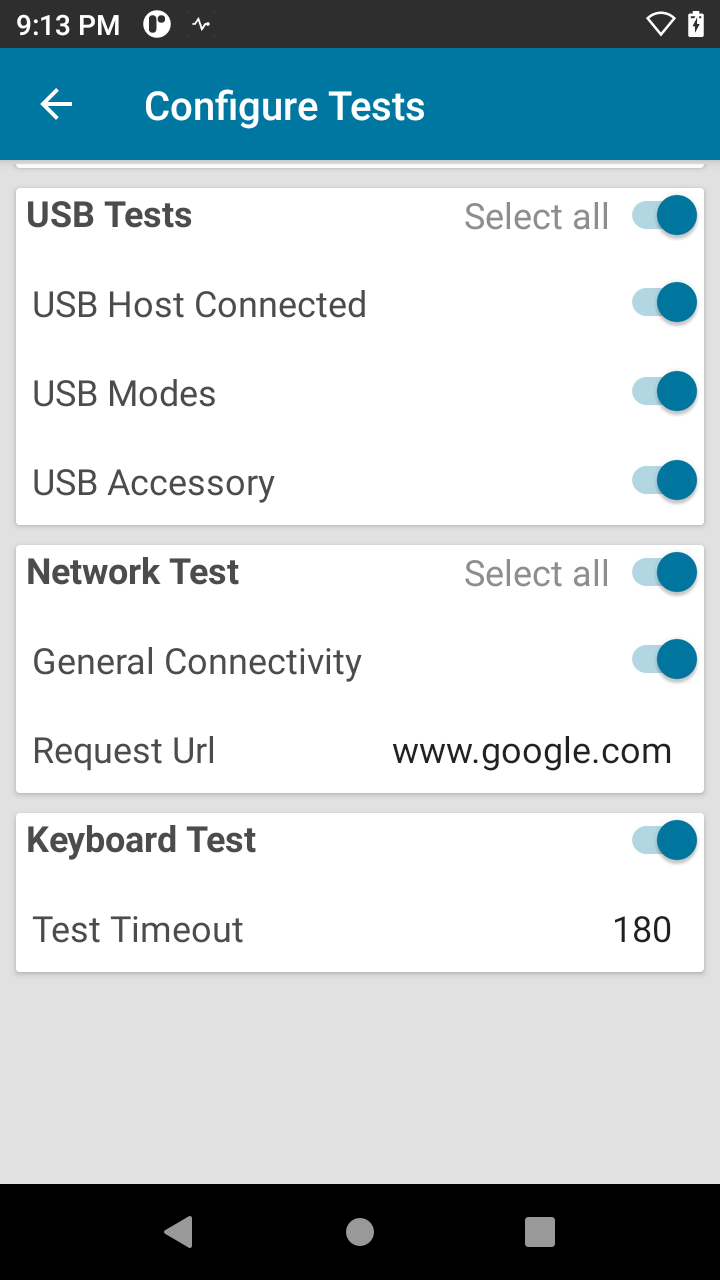
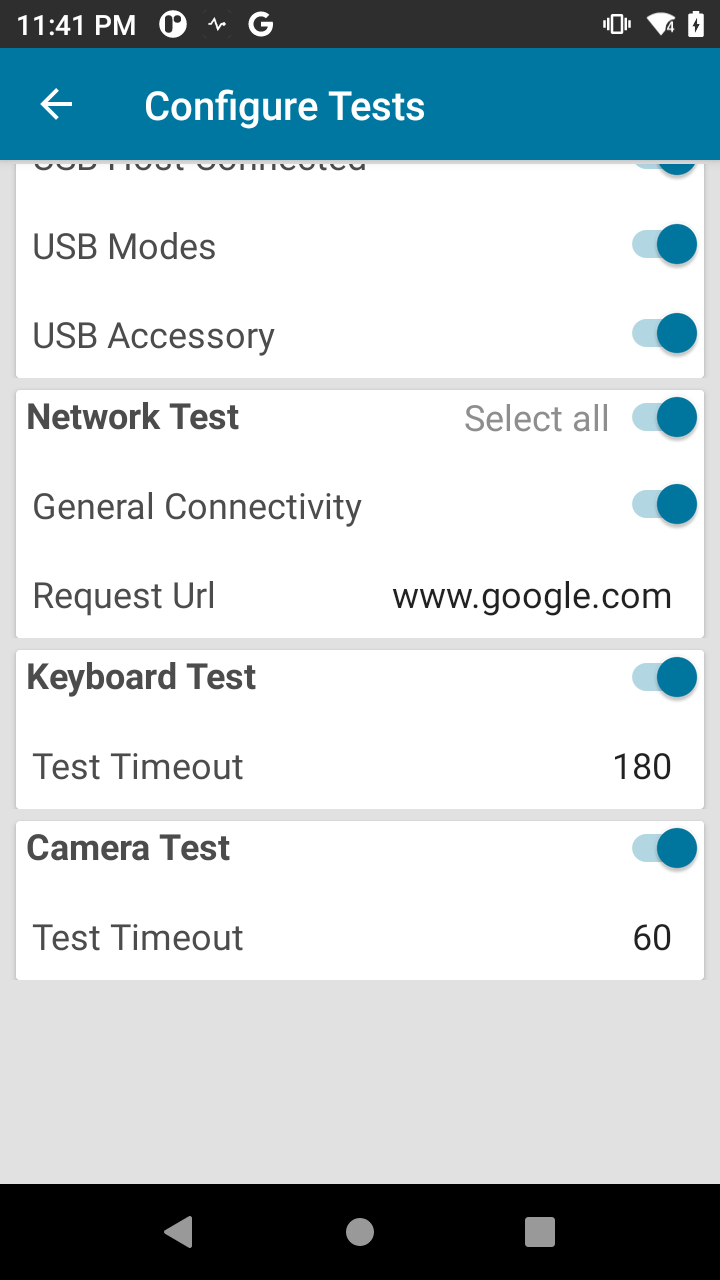
[TUT-92232] DDT 3.1 - New camera test

diff --git a/ddt/3-1/guide/about/index.html b/ddt/3-1/guide/about/index.html
@@ -278,6 +278,8 @@
 <li><strong>Network Test</strong> - checks whether the device can connect to a network (WLAN or WAN)</li>
 
 <li><strong>Keyboard Test</strong> - checks for physical key or button functionality, outputting the keycode value when the key or button is pressed</li>
+
+<li><strong>Camera Test</strong> - checks for camera functionality, enabling a user to capture an image with the device's rear camera and assess the image quality</li>
 </ul>
 
 <p>For more information on each test, refer to <a href="../criteria">Test Criteria.</a></p>
